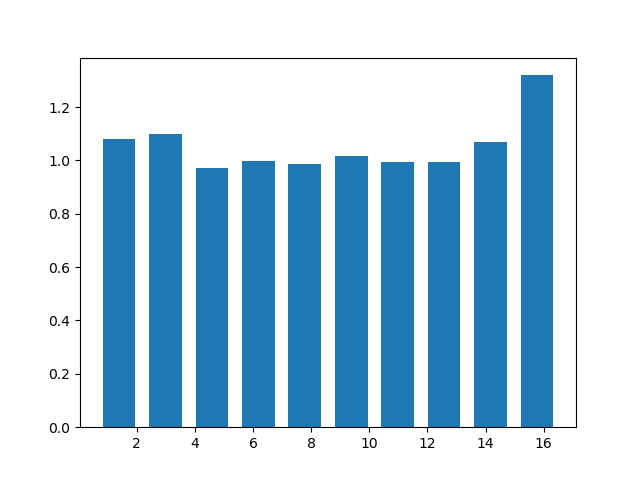
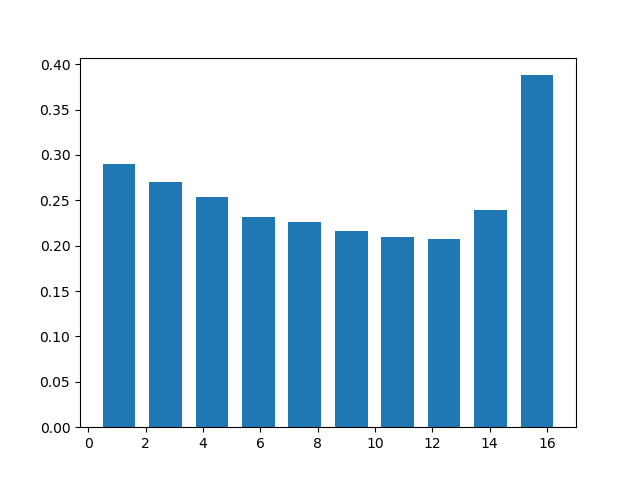
Correct density histogram normalisation

diff --git a/README.md b/README.md
@@ -6,7 +6,7 @@ Code to solve for central configurations in N dimension. Can be ran with e.g.
 python minimize.py --particles 5000 --dim 3 --iters 50000 --log_dir logs/test
 ```
 
-It will use an available GPU, and this greatly increases the speed. A current limitation is the memory constraint from calculating pairwise distances. 
+It will use any available GPU, and this greatly increases the speed. A current limitation is the memory constraint from calculating pairwise distances. 
 
 Runs can be analysed by
 
